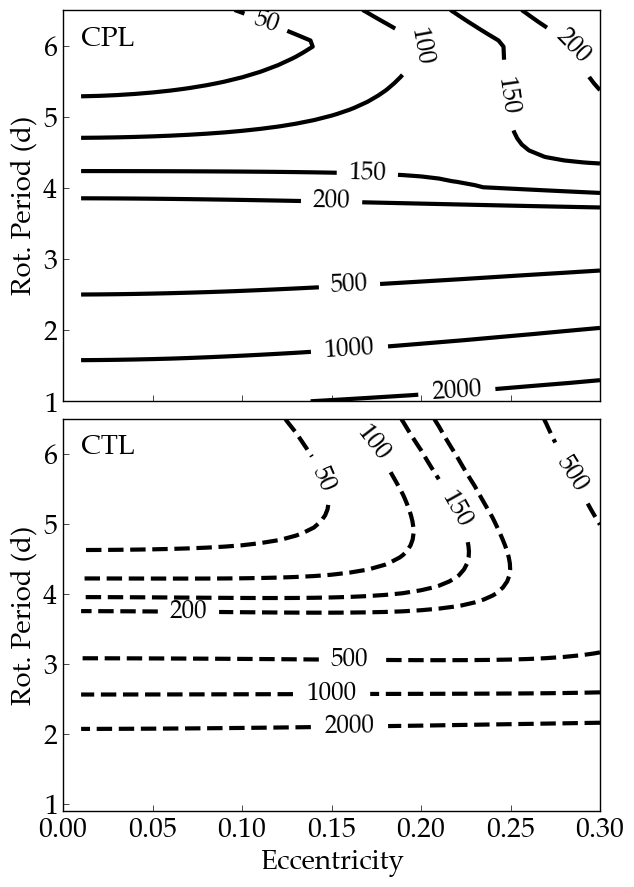
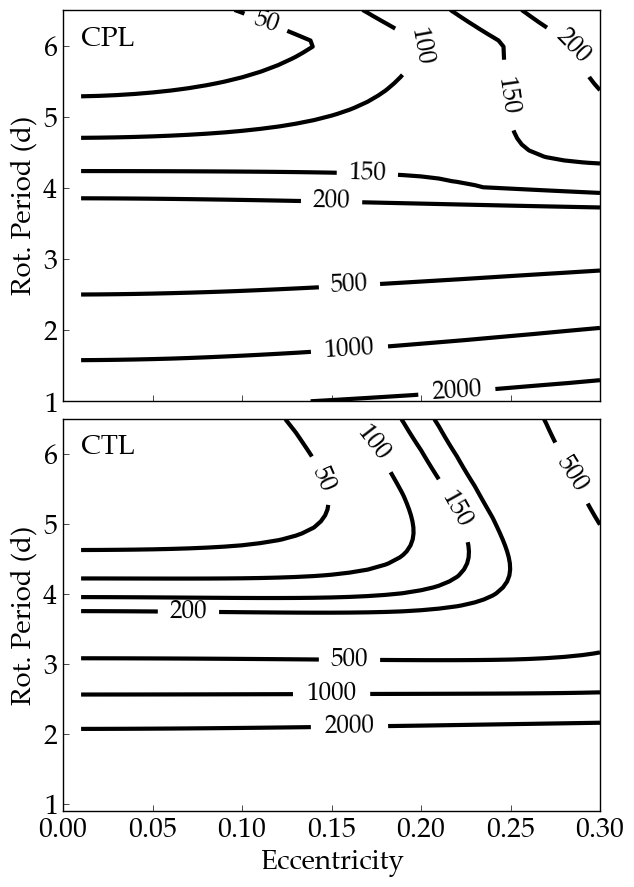
Updated EccRotHeat fig.

diff --git a/EccRotTideHeat/makeplot.py b/EccRotTideHeat/makeplot.py
@@ -132,7 +132,7 @@ for dir in dirs:
             iEcc += 1
             iRot = 0
 
-ContSet = axes[1].contour(ecc,rot,heat,7,colors='black',linestyles='dashed',
+ContSet = axes[1].contour(ecc,rot,heat,7,colors='black',linestyles='solid',
                       levels=[50,100,150,200,500,1000,2000],linewidths=3,origin='lower')
 plt.clabel(ContSet,fmt="%d",inline=True,fontsize=18)
 
